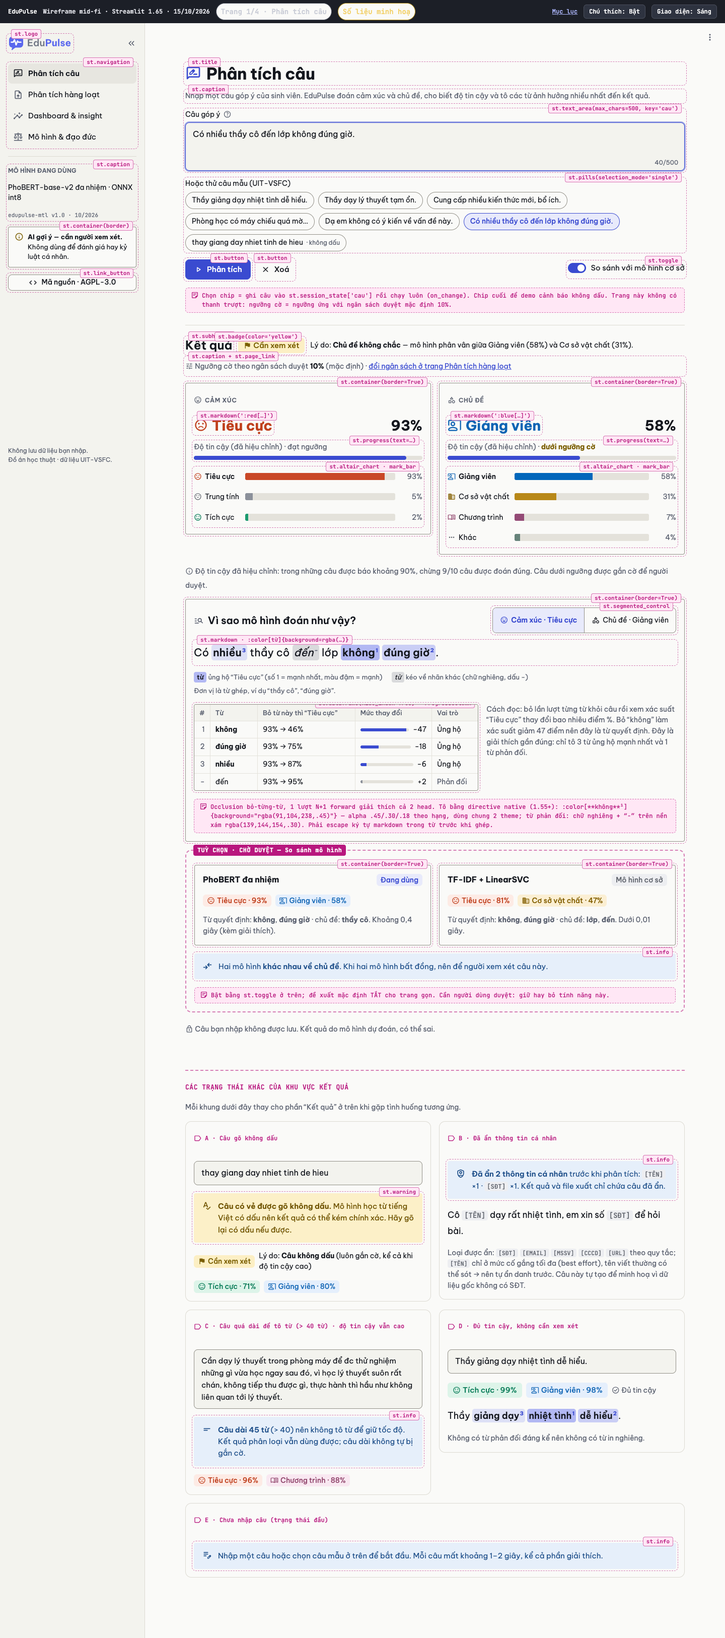
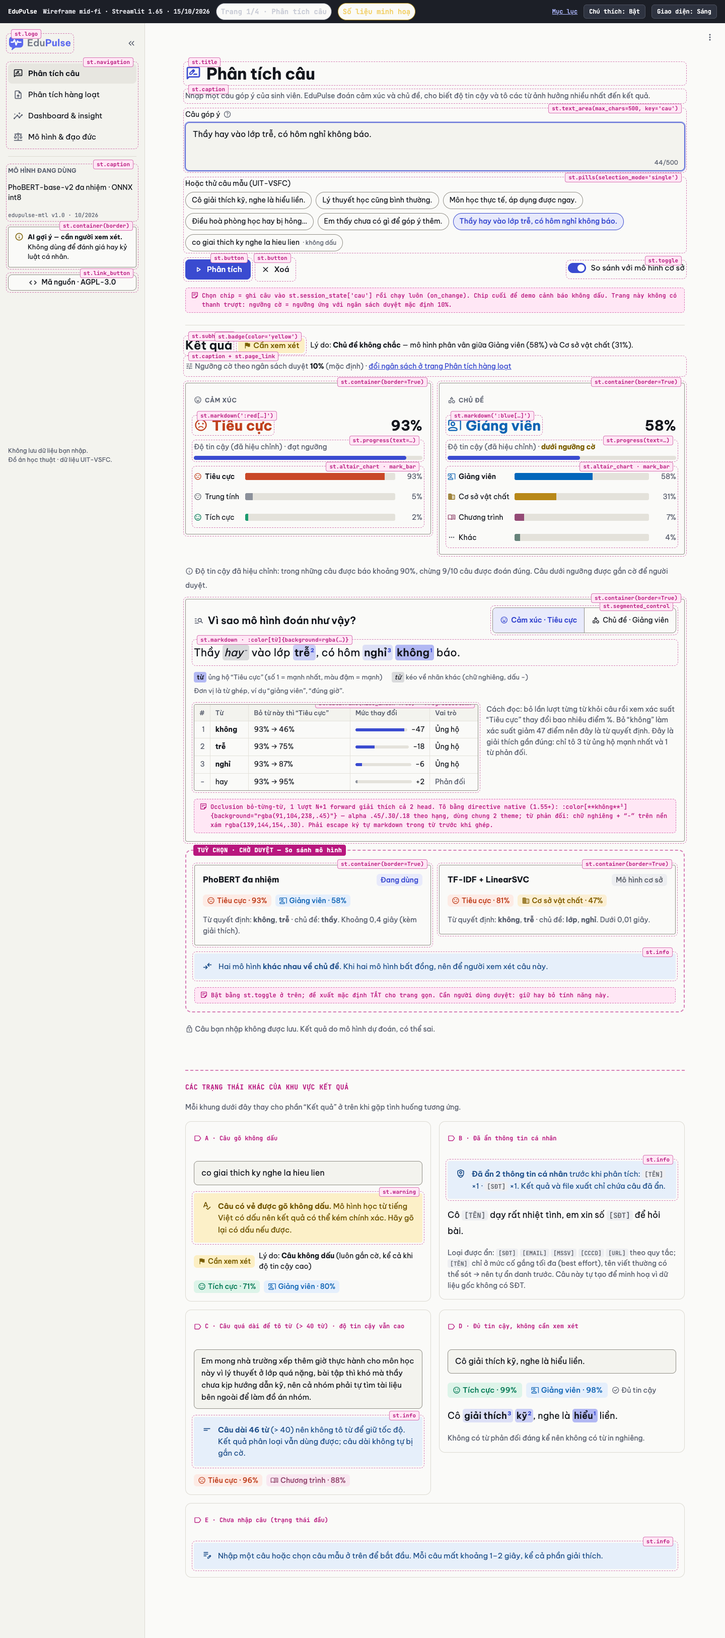
docs: replace dataset sentences in the wireframes with self-written ones
The sample chips, the review table, the explanation drawer, the long-sentence state and the featured quotes on pages 1 to 3 and the index now use self-written sentences of the same length, tone and labels, with the highlighted words and numbers adjusted to match. The screenshots of the four changed wireframes are captured again at 1440 (light and dark) and 390.

diff --git a/docs/wireframes/02-phan-tich-hang-loat.html b/docs/wireframes/02-phan-tich-hang-loat.html
@@ -506,16 +506,16 @@ body:not(.anno) .illus{display:none}
     <colgroup><col style="width:52px"><col style="width:204px"><col style="width:174px"><col style="width:96px"><col style="width:116px"><col style="width:124px"><col style="width:116px"><col style="width:92px"><col style="width:130px"><col style="width:130px"><col style="width:150px"></colgroup>
     <thead><tr><th class="idx">#</th><th>Câu (đã ẩn thông tin cá nhân)</th><th>Lý do</th><th>Cảm xúc</th><th>Sửa cảm xúc</th><th>Chủ đề</th><th>Sửa chủ đề</th><th>Giải thích</th><th>Tin cậy CX</th><th>Tin cậy CĐ</th><th>Môn học</th></tr></thead>
     <tbody>
-      <tr><td class="idx">412</td><td class="txt">[đã gỡ câu UIT-VSFC].</td><td>Cả hai không chắc</td><td class="fg-neu" style="font-weight:500">Trung tính</td><td><div class="sb-cell"><span class="mi">arrow_drop_down</span></div></td><td>Cơ sở vật chất</td><td><div class="sb-cell"><span class="mi">arrow_drop_down</span></div></td><td><span class="chk"></span></td><td><div class="pc"><span class="bar"><i style="width:44%"></i></span>44%</div></td><td><div class="pc"><span class="bar"><i style="width:52%"></i></span>52%</div></td><td>Mạng máy tính</td></tr>
-      <tr><td class="idx">87</td><td class="txt">Em chưa nhớ thầy là ai nữa.</td><td>Cảm xúc không chắc</td><td class="fg-neu" style="font-weight:500">Trung tính</td><td><div class="sb-cell"><span class="mi">arrow_drop_down</span></div></td><td>Giảng viên</td><td><div class="sb-cell"><span class="mi">arrow_drop_down</span></div></td><td><span class="chk"></span></td><td><div class="pc"><span class="bar"><i style="width:48%"></i></span>48%</div></td><td><div class="pc"><span class="bar"><i style="width:90%"></i></span>90%</div></td><td>Hệ điều hành</td></tr>
-      <tr><td class="idx">733</td><td class="txt">[đã gỡ câu UIT-VSFC].</td><td>Chủ đề không chắc</td><td class="fg-neu" style="font-weight:500">Trung tính</td><td><div class="sb-cell"><span class="mi">arrow_drop_down</span></div></td><td>Giảng viên</td><td><div class="sb-cell">Khác<span class="mi">arrow_drop_down</span></div></td><td><span class="chk"></span></td><td><div class="pc"><span class="bar"><i style="width:61%"></i></span>61%</div></td><td><div class="pc"><span class="bar"><i style="width:49%"></i></span>49%</div></td><td>Anh văn 2</td></tr>
-      <tr><td class="idx">256</td><td class="txt">[đã gỡ câu UIT-VSFC].</td><td>Cảm xúc không chắc</td><td class="fg-neg" style="font-weight:500">Tiêu cực</td><td><div class="sb-cell">Trung tính<span class="mi">arrow_drop_down</span></div></td><td>Chương trình</td><td><div class="sb-cell"><span class="mi">arrow_drop_down</span></div></td><td><span class="chk on"></span></td><td><div class="pc"><span class="bar"><i style="width:51%"></i></span>51%</div></td><td><div class="pc"><span class="bar"><i style="width:93%"></i></span>93%</div></td><td>Cấu trúc DL &amp; GT</td></tr>
-      <tr><td class="idx">19</td><td class="txt">[đã gỡ câu UIT-VSFC].</td><td>Chủ đề không chắc</td><td class="fg-neg" style="font-weight:500">Tiêu cực</td><td><div class="sb-cell"><span class="mi">arrow_drop_down</span></div></td><td>Giảng viên</td><td><div class="sb-cell"><span class="mi">arrow_drop_down</span></div></td><td><span class="chk"></span></td><td><div class="pc"><span class="bar"><i style="width:93%"></i></span>93%</div></td><td><div class="pc"><span class="bar"><i style="width:58%"></i></span>58%</div></td><td>Nhập môn lập trình</td></tr>
-      <tr><td class="idx">540</td><td class="txt">[đã gỡ câu UIT-VSFC].</td><td>Cảm xúc không chắc</td><td class="fg-neg" style="font-weight:500">Tiêu cực</td><td><div class="sb-cell">Trung tính<span class="mi">arrow_drop_down</span></div></td><td>Chương trình</td><td><div class="sb-cell"><span class="mi">arrow_drop_down</span></div></td><td><span class="chk"></span></td><td><div class="pc"><span class="bar"><i style="width:62%"></i></span>62%</div></td><td><div class="pc"><span class="bar"><i style="width:88%"></i></span>88%</div></td><td>Cấu trúc DL &amp; GT</td></tr>
-      <tr><td class="idx">318</td><td class="txt">[đã gỡ câu UIT-VSFC]…</td><td>Chủ đề không chắc · dài 44 từ</td><td class="fg-neg" style="font-weight:500">Tiêu cực</td><td><div class="sb-cell"><span class="mi">arrow_drop_down</span></div></td><td>Chương trình</td><td><div class="sb-cell"><span class="mi">arrow_drop_down</span></div></td><td><span class="chk"></span></td><td><div class="pc"><span class="bar"><i style="width:90%"></i></span>90%</div></td><td><div class="pc"><span class="bar"><i style="width:63%"></i></span>63%</div></td><td>Anh văn 2</td></tr>
-      <tr><td class="idx">902</td><td class="txt">thay giang day nhiet tinh de hieu</td><td>Câu không dấu</td><td class="fg-pos" style="font-weight:500">Tích cực</td><td><div class="sb-cell"><span class="mi">arrow_drop_down</span></div></td><td>Giảng viên</td><td><div class="sb-cell"><span class="mi">arrow_drop_down</span></div></td><td><span class="chk"></span></td><td><div class="pc"><span class="bar"><i style="width:71%"></i></span>71%</div></td><td><div class="pc"><span class="bar"><i style="width:80%"></i></span>80%</div></td><td>Nhập môn lập trình</td></tr>
-      <tr><td class="idx">655</td><td class="txt">Phòng lab <span class="pii">[TÊN]</span> [đã gỡ câu UIT-VSFC].</td><td class="fg-mut">Ngẫu nhiên (kiểm tra)</td><td class="fg-neg" style="font-weight:500">Tiêu cực</td><td><div class="sb-cell"><span class="mi">arrow_drop_down</span></div></td><td>Cơ sở vật chất</td><td><div class="sb-cell"><span class="mi">arrow_drop_down</span></div></td><td><span class="chk"></span></td><td><div class="pc"><span class="bar"><i style="width:97%"></i></span>97%</div></td><td><div class="pc"><span class="bar"><i style="width:95%"></i></span>95%</div></td><td>Mạng máy tính</td></tr>
-      <tr><td class="idx">131</td><td class="txt">Thầy dạy nhiệt tình, dễ tiếp thu.</td><td class="fg-mut">Ngẫu nhiên (kiểm tra)</td><td class="fg-pos" style="font-weight:500">Tích cực</td><td><div class="sb-cell"><span class="mi">arrow_drop_down</span></div></td><td>Giảng viên</td><td><div class="sb-cell"><span class="mi">arrow_drop_down</span></div></td><td><span class="chk"></span></td><td><div class="pc"><span class="bar"><i style="width:99%"></i></span>99%</div></td><td><div class="pc"><span class="bar"><i style="width:99%"></i></span>99%</div></td><td>Cơ sở dữ liệu</td></tr>
+      <tr><td class="idx">412</td><td class="txt">Phòng thực hành máy hơi chậm, nhưng cô hướng dẫn kỹ nên em cũng không phàn nàn gì.</td><td>Cả hai không chắc</td><td class="fg-neu" style="font-weight:500">Trung tính</td><td><div class="sb-cell"><span class="mi">arrow_drop_down</span></div></td><td>Cơ sở vật chất</td><td><div class="sb-cell"><span class="mi">arrow_drop_down</span></div></td><td><span class="chk"></span></td><td><div class="pc"><span class="bar"><i style="width:44%"></i></span>44%</div></td><td><div class="pc"><span class="bar"><i style="width:52%"></i></span>52%</div></td><td>Mạng máy tính</td></tr>
+      <tr><td class="idx">87</td><td class="txt">Em quên cô dạy buổi đó là ai rồi.</td><td>Cảm xúc không chắc</td><td class="fg-neu" style="font-weight:500">Trung tính</td><td><div class="sb-cell"><span class="mi">arrow_drop_down</span></div></td><td>Giảng viên</td><td><div class="sb-cell"><span class="mi">arrow_drop_down</span></div></td><td><span class="chk"></span></td><td><div class="pc"><span class="bar"><i style="width:48%"></i></span>48%</div></td><td><div class="pc"><span class="bar"><i style="width:90%"></i></span>90%</div></td><td>Hệ điều hành</td></tr>
+      <tr><td class="idx">733</td><td class="txt">Đây chỉ là nhận xét riêng của em về cô dạy môn tiếng Anh 2.</td><td>Chủ đề không chắc</td><td class="fg-neu" style="font-weight:500">Trung tính</td><td><div class="sb-cell"><span class="mi">arrow_drop_down</span></div></td><td>Giảng viên</td><td><div class="sb-cell">Khác<span class="mi">arrow_drop_down</span></div></td><td><span class="chk"></span></td><td><div class="pc"><span class="bar"><i style="width:61%"></i></span>61%</div></td><td><div class="pc"><span class="bar"><i style="width:49%"></i></span>49%</div></td><td>Anh văn 2</td></tr>
+      <tr><td class="idx">256</td><td class="txt">Mong thầy bổ sung thêm bài mẫu cho mỗi chương để em dễ ôn tập.</td><td>Cảm xúc không chắc</td><td class="fg-neg" style="font-weight:500">Tiêu cực</td><td><div class="sb-cell">Trung tính<span class="mi">arrow_drop_down</span></div></td><td>Chương trình</td><td><div class="sb-cell"><span class="mi">arrow_drop_down</span></div></td><td><span class="chk on"></span></td><td><div class="pc"><span class="bar"><i style="width:51%"></i></span>51%</div></td><td><div class="pc"><span class="bar"><i style="width:93%"></i></span>93%</div></td><td>Cấu trúc DL &amp; GT</td></tr>
+      <tr><td class="idx">19</td><td class="txt">Thầy hay vào lớp trễ, có hôm nghỉ không báo.</td><td>Chủ đề không chắc</td><td class="fg-neg" style="font-weight:500">Tiêu cực</td><td><div class="sb-cell"><span class="mi">arrow_drop_down</span></div></td><td>Giảng viên</td><td><div class="sb-cell"><span class="mi">arrow_drop_down</span></div></td><td><span class="chk"></span></td><td><div class="pc"><span class="bar"><i style="width:93%"></i></span>93%</div></td><td><div class="pc"><span class="bar"><i style="width:58%"></i></span>58%</div></td><td>Nhập môn lập trình</td></tr>
+      <tr><td class="idx">540</td><td class="txt">Lượng bài tập quá nhiều mà thời hạn nộp lại rất gấp.</td><td>Cảm xúc không chắc</td><td class="fg-neg" style="font-weight:500">Tiêu cực</td><td><div class="sb-cell">Trung tính<span class="mi">arrow_drop_down</span></div></td><td>Chương trình</td><td><div class="sb-cell"><span class="mi">arrow_drop_down</span></div></td><td><span class="chk"></span></td><td><div class="pc"><span class="bar"><i style="width:62%"></i></span>62%</div></td><td><div class="pc"><span class="bar"><i style="width:88%"></i></span>88%</div></td><td>Cấu trúc DL &amp; GT</td></tr>
+      <tr><td class="idx">318</td><td class="txt">Môn tin học đại cương xếp lịch liền 5 tiết buổi chiều, tan lớp gần 7h tối nên sinh viên ở xa về đến nhà rất muộn…</td><td>Chủ đề không chắc · dài 44 từ</td><td class="fg-neg" style="font-weight:500">Tiêu cực</td><td><div class="sb-cell"><span class="mi">arrow_drop_down</span></div></td><td>Chương trình</td><td><div class="sb-cell"><span class="mi">arrow_drop_down</span></div></td><td><span class="chk"></span></td><td><div class="pc"><span class="bar"><i style="width:90%"></i></span>90%</div></td><td><div class="pc"><span class="bar"><i style="width:63%"></i></span>63%</div></td><td>Tin học đại cương</td></tr>
+      <tr><td class="idx">902</td><td class="txt">co giai thich ky nghe la hieu lien</td><td>Câu không dấu</td><td class="fg-pos" style="font-weight:500">Tích cực</td><td><div class="sb-cell"><span class="mi">arrow_drop_down</span></div></td><td>Giảng viên</td><td><div class="sb-cell"><span class="mi">arrow_drop_down</span></div></td><td><span class="chk"></span></td><td><div class="pc"><span class="bar"><i style="width:71%"></i></span>71%</div></td><td><div class="pc"><span class="bar"><i style="width:80%"></i></span>80%</div></td><td>Nhập môn lập trình</td></tr>
+      <tr><td class="idx">655</td><td class="txt">Phòng lab <span class="pii">[TÊN]</span> hay mất điện, máy lạnh lại yếu, mong sớm sửa chữa.</td><td class="fg-mut">Ngẫu nhiên (kiểm tra)</td><td class="fg-neg" style="font-weight:500">Tiêu cực</td><td><div class="sb-cell"><span class="mi">arrow_drop_down</span></div></td><td>Cơ sở vật chất</td><td><div class="sb-cell"><span class="mi">arrow_drop_down</span></div></td><td><span class="chk"></span></td><td><div class="pc"><span class="bar"><i style="width:97%"></i></span>97%</div></td><td><div class="pc"><span class="bar"><i style="width:95%"></i></span>95%</div></td><td>Mạng máy tính</td></tr>
+      <tr><td class="idx">131</td><td class="txt">Cô hướng dẫn tận tình, dễ nắm ý chính.</td><td class="fg-mut">Ngẫu nhiên (kiểm tra)</td><td class="fg-pos" style="font-weight:500">Tích cực</td><td><div class="sb-cell"><span class="mi">arrow_drop_down</span></div></td><td>Giảng viên</td><td><div class="sb-cell"><span class="mi">arrow_drop_down</span></div></td><td><span class="chk"></span></td><td><div class="pc"><span class="bar"><i style="width:99%"></i></span>99%</div></td><td><div class="pc"><span class="bar"><i style="width:99%"></i></span>99%</div></td><td>Cơ sở dữ liệu</td></tr>
     </tbody>
   </table>
 </div>
@@ -528,9 +528,9 @@ body:not(.anno) .illus{display:none}
     <div class="dh"><h3 class="t3">Giải thích câu #256</h3><span class="mi x">close</span></div>
     <div class="row wrap-m" style="gap:8px;align-items:center"><span class="bd bd-flag"><span class="mi fill">flag</span>Cần xem xét</span><span class="cap" style="color:var(--text)">Lý do: <b>Cảm xúc không chắc</b> — Tiêu cực 51% · Trung tính 32% · Tích cực 17%</span></div>
     <span class="seg"><span class="on">Cảm xúc · Tiêu cực</span><span>Chủ đề · Chương trình</span></span>
-    <div class="xs" style="font-size:19px"><span class="w s3">Cần<sup>1</sup></span> <span class="w s1">có<sup>3</sup></span> giáo trình <span class="w s2">chi tiết<sup>2</sup></span> về môn học cho sinh viên <span class="w o">dễ<sup>−</sup></span> nắm bắt.</div>
+    <div class="xs" style="font-size:19px"><span class="w s3">Mong<sup>1</sup></span> thầy <span class="w s2">bổ sung<sup>2</sup></span> <span class="w s1">thêm<sup>3</sup></span> bài mẫu cho mỗi chương để em <span class="w o">dễ<sup>−</sup></span> ôn tập.</div>
     <div class="xl"><span><span class="k s">từ</span> ủng hộ “Tiêu cực”</span><span><span class="k o">từ</span> kéo về “Tích cực” (chữ nghiêng, dấu −)</span></div>
-    <p class="cap">Bỏ “cần” làm xác suất “Tiêu cực” giảm từ 51% xuống 30%. Câu mang tính đề xuất (“cần có…”) nên mô hình phân vân giữa tiêu cực và trung tính; nhãn gốc trong dữ liệu là tích cực.</p>
+    <p class="cap">Bỏ “mong” làm xác suất “Tiêu cực” giảm từ 51% xuống 30%. Câu mang tính đề xuất (“mong thầy bổ sung…”) nên mô hình phân vân giữa tiêu cực và trung tính; người duyệt có thể sửa thành trung tính.</p>
     <div class="row" style="justify-content:flex-end;gap:8px"><span class="btn t">Câu trước</span><span class="btn">Câu sau</span><span class="btn p">Đóng</span></div>
   </div>
 </div>

diff --git a/docs/wireframes/01-phan-tich-cau.html b/docs/wireframes/01-phan-tich-cau.html
@@ -425,18 +425,18 @@ body:not(.anno) .illus{display:none}
 <div class="v">
   <div class="a" data-st="st.text_area(max_chars=500, key='cau')">
     <div class="lbl">Câu góp ý <span class="mi" aria-hidden="true">help</span></div>
-    <div class="ta focus">[đã gỡ câu UIT-VSFC].<span class="cnt num">40/500</span></div>
+    <div class="ta focus">Thầy hay vào lớp trễ, có hôm nghỉ không báo.<span class="cnt num">44/500</span></div>
   </div>
   <div class="a" data-st="st.pills(selection_mode='single')">
     <div class="lbl">Hoặc thử câu mẫu (UIT-VSFC)</div>
     <div class="pills">
-      <span class="pill">Thầy giảng dạy nhiệt tình dễ hiểu.</span>
-      <span class="pill">Thầy dạy lý thuyết tạm ổn.</span>
-      <span class="pill">[đã gỡ câu UIT-VSFC].</span>
-      <span class="pill">Phòng học có máy chiếu quá mờ…</span>
-      <span class="pill">[đã gỡ câu UIT-VSFC].</span>
-      <span class="pill on">[đã gỡ câu UIT-VSFC].</span>
-      <span class="pill">thay giang day nhiet tinh de hieu <span class="n">· không dấu</span></span>
+      <span class="pill">Cô giải thích kỹ, nghe là hiểu liền.</span>
+      <span class="pill">Lý thuyết học cũng bình thường.</span>
+      <span class="pill">Môn học thực tế, áp dụng được ngay.</span>
+      <span class="pill">Điều hoà phòng học hay bị hỏng…</span>
+      <span class="pill">Em thấy chưa có gì để góp ý thêm.</span>
+      <span class="pill on">Thầy hay vào lớp trễ, có hôm nghỉ không báo.</span>
+      <span class="pill">co giai thich ky nghe la hieu lien <span class="n">· không dấu</span></span>
     </div>
   </div>
   <div class="row wrap-m" style="align-items:center;gap:12px">
@@ -503,11 +503,11 @@ body:not(.anno) .illus{display:none}
     <h3 class="t3"><span class="mi">manage_search</span>Vì sao mô hình đoán như vậy?</h3>
     <span class="a" data-st="st.segmented_control"><span class="seg"><span class="on"><span class="mi xs">mood</span>Cảm xúc · Tiêu cực</span><span><span class="mi xs">category</span>Chủ đề · Giảng viên</span></span></span>
   </div>
-  <div class="xs a al-l" data-st="st.markdown · :color[từ]{background=rgba(…)}">Có <span class="w s1">nhiều<sup>3</sup></span> thầy cô <span class="w o">đến<sup>−</sup></span> lớp <span class="w s3">không<sup>1</sup></span> <span class="w s2">đúng giờ<sup>2</sup></span>.</div>
+  <div class="xs a al-l" data-st="st.markdown · :color[từ]{background=rgba(…)}">Thầy <span class="w o">hay<sup>−</sup></span> vào lớp <span class="w s2">trễ<sup>2</sup></span>, có hôm <span class="w s1">nghỉ<sup>3</sup></span> <span class="w s3">không<sup>1</sup></span> báo.</div>
   <div class="xl">
     <span><span class="k s">từ</span> ủng hộ “Tiêu cực” (số 1 = mạnh nhất, màu đậm = mạnh)</span>
     <span><span class="k o">từ</span> kéo về nhãn khác (chữ nghiêng, dấu −)</span>
-    <span>Đơn vị là từ ghép, ví dụ “thầy cô”, “đúng giờ”.</span>
+    <span>Đơn vị là từ ghép, ví dụ “giảng viên”, “đúng giờ”.</span>
   </div>
   <div class="cols c32">
     <div class="dfw a" data-st="st.dataframe(hide_index=True) · ProgressColumn">
@@ -515,9 +515,9 @@ body:not(.anno) .illus{display:none}
         <thead><tr><th class="idx">#</th><th>Từ</th><th>Bỏ từ này thì “Tiêu cực”</th><th>Mức thay đổi</th><th>Vai trò</th></tr></thead>
         <tbody>
           <tr><td class="idx">1</td><td><b>không</b></td><td class="num">93% → 46%</td><td><div class="pc"><span class="bar"><i style="width:94%"></i></span>−47</div></td><td>Ủng hộ</td></tr>
-          <tr><td class="idx">2</td><td><b>đúng giờ</b></td><td class="num">93% → 75%</td><td><div class="pc"><span class="bar"><i style="width:36%"></i></span>−18</div></td><td>Ủng hộ</td></tr>
-          <tr><td class="idx">3</td><td><b>nhiều</b></td><td class="num">93% → 87%</td><td><div class="pc"><span class="bar"><i style="width:12%"></i></span>−6</div></td><td>Ủng hộ</td></tr>
-          <tr><td class="idx">−</td><td>đến</td><td class="num">93% → 95%</td><td><div class="pc"><span class="bar"><i style="width:4%;background:var(--neu)"></i></span>+2</div></td><td class="fg-mut">Phản đối</td></tr>
+          <tr><td class="idx">2</td><td><b>trễ</b></td><td class="num">93% → 75%</td><td><div class="pc"><span class="bar"><i style="width:36%"></i></span>−18</div></td><td>Ủng hộ</td></tr>
+          <tr><td class="idx">3</td><td><b>nghỉ</b></td><td class="num">93% → 87%</td><td><div class="pc"><span class="bar"><i style="width:12%"></i></span>−6</div></td><td>Ủng hộ</td></tr>
+          <tr><td class="idx">−</td><td>hay</td><td class="num">93% → 95%</td><td><div class="pc"><span class="bar"><i style="width:4%;background:var(--neu)"></i></span>+2</div></td><td class="fg-mut">Phản đối</td></tr>
         </tbody>
       </table>
     </div>
@@ -532,12 +532,12 @@ body:not(.anno) .illus{display:none}
     <div class="box v a" data-st="st.container(border=True)">
       <div class="row" style="align-items:center;justify-content:space-between"><b>PhoBERT đa nhiệm</b><span class="bd bd-pri">Đang dùng</span></div>
       <div class="row wrap-m" style="gap:8px"><span class="bd bd-neg"><span class="mi">sentiment_dissatisfied</span>Tiêu cực · 93%</span><span class="bd bd-gv"><span class="mi">co_present</span>Giảng viên · 58%</span></div>
-      <p class="cap">Từ quyết định: <b>không</b>, <b>đúng giờ</b> · chủ đề: <b>thầy cô</b>. Khoảng 0,4 giây (kèm giải thích).</p>
+      <p class="cap">Từ quyết định: <b>không</b>, <b>trễ</b> · chủ đề: <b>thầy</b>. Khoảng 0,4 giây (kèm giải thích).</p>
     </div>
     <div class="box v a" data-st="st.container(border=True)">
       <div class="row" style="align-items:center;justify-content:space-between"><b>TF-IDF + LinearSVC</b><span class="bd bd-gray">Mô hình cơ sở</span></div>
       <div class="row wrap-m" style="gap:8px"><span class="bd bd-neg"><span class="mi">sentiment_dissatisfied</span>Tiêu cực · 81%</span><span class="bd bd-csvc"><span class="mi">domain</span>Cơ sở vật chất · 47%</span></div>
-      <p class="cap">Từ quyết định: <b>không</b>, <b>đúng giờ</b> · chủ đề: <b>lớp</b>, <b>đến</b>. Dưới 0,01 giây.</p>
+      <p class="cap">Từ quyết định: <b>không</b>, <b>trễ</b> · chủ đề: <b>lớp</b>, <b>nghỉ</b>. Dưới 0,01 giây.</p>
     </div>
   </div>
   <div class="al info a" data-st="st.info"><span class="mi">compare_arrows</span><div>Hai mô hình <b>khác nhau về chủ đề</b>. Khi hai mô hình bất đồng, nên để người xem xét câu này.</div></div>
@@ -552,7 +552,7 @@ body:not(.anno) .illus{display:none}
   <div class="cols c2">
     <div class="state v">
       <div class="sh"><span class="mi xs">label</span>A · Câu gõ không dấu</div>
-      <div class="ta" style="min-height:0">thay giang day nhiet tinh de hieu</div>
+      <div class="ta" style="min-height:0">co giai thich ky nghe la hieu lien</div>
       <div class="al warn a" data-st="st.warning"><span class="mi">spellcheck</span><div><b>Câu có vẻ được gõ không dấu.</b> Mô hình học từ tiếng Việt có dấu nên kết quả có thể kém chính xác. Hãy gõ lại có dấu nếu được.</div></div>
       <div class="row wrap-m" style="align-items:center;gap:8px"><span class="bd bd-flag"><span class="mi fill">flag</span>Cần xem xét</span><span class="cap" style="color:var(--text)">Lý do: <b>Câu không dấu</b> (luôn gắn cờ, kể cả khi độ tin cậy cao)</span></div>
       <div class="row wrap-m" style="gap:8px"><span class="bd bd-pos"><span class="mi">sentiment_satisfied</span>Tích cực · 71%</span><span class="bd bd-gv"><span class="mi">co_present</span>Giảng viên · 80%</span></div>
@@ -565,15 +565,15 @@ body:not(.anno) .illus{display:none}
     </div>
     <div class="state v">
       <div class="sh"><span class="mi xs">label</span>C · Câu quá dài để tô từ (&gt; 40 từ) · độ tin cậy vẫn cao</div>
-      <div class="ta" style="min-height:0;font-size:15px">[đã gỡ câu UIT-VSFC].</div>
-      <div class="al info a" data-st="st.info"><span class="mi">short_text</span><div><b>Câu dài 45 từ</b> (&gt; 40) nên không tô từ để giữ tốc độ. Kết quả phân loại vẫn dùng được; câu dài không tự bị gắn cờ.</div></div>
+      <div class="ta" style="min-height:0;font-size:15px">Em mong nhà trường xếp thêm giờ thực hành cho môn học này vì lý thuyết ở lớp quá nặng, bài tập thì khó mà thầy chưa kịp hướng dẫn kỹ, nên cả nhóm phải tự tìm tài liệu bên ngoài để làm đồ án nhóm.</div>
+      <div class="al info a" data-st="st.info"><span class="mi">short_text</span><div><b>Câu dài 46 từ</b> (&gt; 40) nên không tô từ để giữ tốc độ. Kết quả phân loại vẫn dùng được; câu dài không tự bị gắn cờ.</div></div>
       <div class="row wrap-m" style="gap:8px"><span class="bd bd-neg"><span class="mi">sentiment_dissatisfied</span>Tiêu cực · 96%</span><span class="bd bd-ct"><span class="mi">menu_book</span>Chương trình · 88%</span></div>
     </div>
     <div class="state v">
       <div class="sh"><span class="mi xs">label</span>D · Đủ tin cậy, không cần xem xét</div>
-      <div class="ta" style="min-height:0">Thầy giảng dạy nhiệt tình dễ hiểu.</div>
+      <div class="ta" style="min-height:0">Cô giải thích kỹ, nghe là hiểu liền.</div>
       <div class="row wrap-m" style="align-items:center;gap:8px"><span class="bd bd-pos lg"><span class="mi">sentiment_satisfied</span>Tích cực · 99%</span><span class="bd bd-gv lg"><span class="mi">co_present</span>Giảng viên · 98%</span><span class="cap"><span class="mi xs">check_circle</span> Đủ tin cậy</span></div>
-      <div class="xs" style="font-size:18px;line-height:2">Thầy <span class="w s1">giảng dạy<sup>3</sup></span> <span class="w s3">nhiệt tình<sup>1</sup></span> <span class="w s2">dễ hiểu<sup>2</sup></span>.</div>
+      <div class="xs" style="font-size:18px;line-height:2">Cô <span class="w s1">giải thích<sup>3</sup></span> <span class="w s2">kỹ<sup>2</sup></span>, nghe là <span class="w s3">hiểu<sup>1</sup></span> liền.</div>
       <p class="cap">Không có từ phản đối đáng kể nên không có từ in nghiêng.</p>
     </div>
   </div>

diff --git a/docs/wireframes/03-dashboard-insight.html b/docs/wireframes/03-dashboard-insight.html
@@ -519,10 +519,10 @@ body:not(.anno) .illus{display:none}
     <div class="tabs a al-l" data-st="st.tabs"><span class="on"><span class="mi xs">domain</span>Cơ sở vật chất</span><span><span class="mi xs">menu_book</span>Chương trình</span><span><span class="mi xs">co_present</span>Giảng viên</span><span><span class="mi xs">more_horiz</span>Khác</span></div>
     <div class="row" style="align-items:center;gap:8px"><span class="cap">Đang lọc:</span><span class="chip-x">máy chiếu<span class="mi xs">close</span></span></div>
     <div class="a" data-st="st.markdown × n">
-      <div class="quote"><span class="mi">format_quote</span><div class="v tight" style="gap:4px"><span>[đã gỡ câu UIT-VSFC] <span class="kw">máy chiếu</span> quá <span class="kw">mờ</span>.</span><span class="cap"><span class="bd bd-neg"><span class="mi">sentiment_dissatisfied</span>Tiêu cực · 97%</span> · Mạng máy tính</span></div></div>
-      <div class="quote"><span class="mi">format_quote</span><div class="v tight" style="gap:4px"><span><span class="kw">Máy chiếu</span> [đã gỡ câu UIT-VSFC] <span class="kw">mờ</span>.</span><span class="cap"><span class="bd bd-neg"><span class="mi">sentiment_dissatisfied</span>Tiêu cực · 95%</span> · Cơ sở dữ liệu</span></div></div>
-      <div class="quote"><span class="mi">format_quote</span><div class="v tight" style="gap:4px"><span>Phòng học cần có rèm để <span class="kw">máy chiếu</span> được rõ ràng.</span><span class="cap"><span class="bd bd-neg"><span class="mi">sentiment_dissatisfied</span>Tiêu cực · 88%</span> · Anh văn 2</span></div></div>
-      <div class="quote"><span class="mi">format_quote</span><div class="v tight" style="gap:4px"><span><span class="kw">Nâng cấp</span> <span class="kw">máy chiếu</span> vì <span class="kw">máy chiếu</span> đã <span class="kw">mờ</span>!</span><span class="cap"><span class="bd bd-neg"><span class="mi">sentiment_dissatisfied</span>Tiêu cực · 96%</span> · Hệ điều hành</span></div></div>
+      <div class="quote"><span class="mi">format_quote</span><div class="v tight" style="gap:4px"><span>Ngồi cuối lớp không đọc được chữ vì <span class="kw">máy chiếu</span> <span class="kw">mờ</span> quá.</span><span class="cap"><span class="bd bd-neg"><span class="mi">sentiment_dissatisfied</span>Tiêu cực · 97%</span> · Mạng máy tính</span></div></div>
+      <div class="quote"><span class="mi">format_quote</span><div class="v tight" style="gap:4px"><span><span class="kw">Máy chiếu</span> hay bị nhoè hình, buổi trưa nắng chiếu vào càng <span class="kw">mờ</span> hơn.</span><span class="cap"><span class="bd bd-neg"><span class="mi">sentiment_dissatisfied</span>Tiêu cực · 95%</span> · Cơ sở dữ liệu</span></div></div>
+      <div class="quote"><span class="mi">format_quote</span><div class="v tight" style="gap:4px"><span>Buổi sáng nắng gắt chiếu vào lớp nên <span class="kw">máy chiếu</span> khó nhìn, cần có rèm.</span><span class="cap"><span class="bd bd-neg"><span class="mi">sentiment_dissatisfied</span>Tiêu cực · 88%</span> · Anh văn 2</span></div></div>
+      <div class="quote"><span class="mi">format_quote</span><div class="v tight" style="gap:4px"><span><span class="kw">Máy chiếu</span> đời cũ rồi, <span class="kw">mờ</span> quá, nên <span class="kw">nâng cấp</span> sớm.</span><span class="cap"><span class="bd bd-neg"><span class="mi">sentiment_dissatisfied</span>Tiêu cực · 96%</span> · Hệ điều hành</span></div></div>
     </div>
     <p class="cap">Ưu tiên câu gọn (6–30 từ), chứa nhiều từ khoá, độ tin cậy ≥ 70%, bỏ câu gần trùng. Tên riêng đã ẩn.</p>
   </div>

diff --git a/docs/wireframes/index.html b/docs/wireframes/index.html
@@ -486,7 +486,7 @@ body:not(.anno) .illus{display:none}
     <div class="r"><code>title 32/40 · 700</code><span style="font-size:32px;font-weight:700;line-height:1.25">Phân tích góp ý</span></div>
     <div class="r"><code>header 24/32 · 600</code><span style="font-size:24px;font-weight:600">Cảnh báo so với mức nền</span></div>
     <div class="r"><code>subheader 20/28 · 600</code><span style="font-size:20px;font-weight:600">Vì sao mô hình đoán như vậy?</span></div>
-    <div class="r"><code>body 16/24 · 400</code><span>[đã gỡ câu UIT-VSFC].</span></div>
+    <div class="r"><code>body 16/24 · 400</code><span>Quạt trần phòng học kêu rất to, ngồi lâu thấy khó chú ý bài giảng.</span></div>
     <div class="r"><code>caption 14/22 · 400</code><span class="cap">Độ tin cậy đã hiệu chỉnh: ấ ầ ẩ ẫ ậ · ắ ằ ẳ ẵ ặ · ế ề ể ễ ệ · ố ồ ổ ỗ ộ · ớ ờ ở ỡ ợ · ứ ừ ử ữ ự · Đ đ</span></div>
     <div class="r"><code>code 13/20 · mono</code><code style="font-size:13px;color:var(--text)">edupulse-mtl v1.0 · JetBrains Mono</code></div>
   </div>
